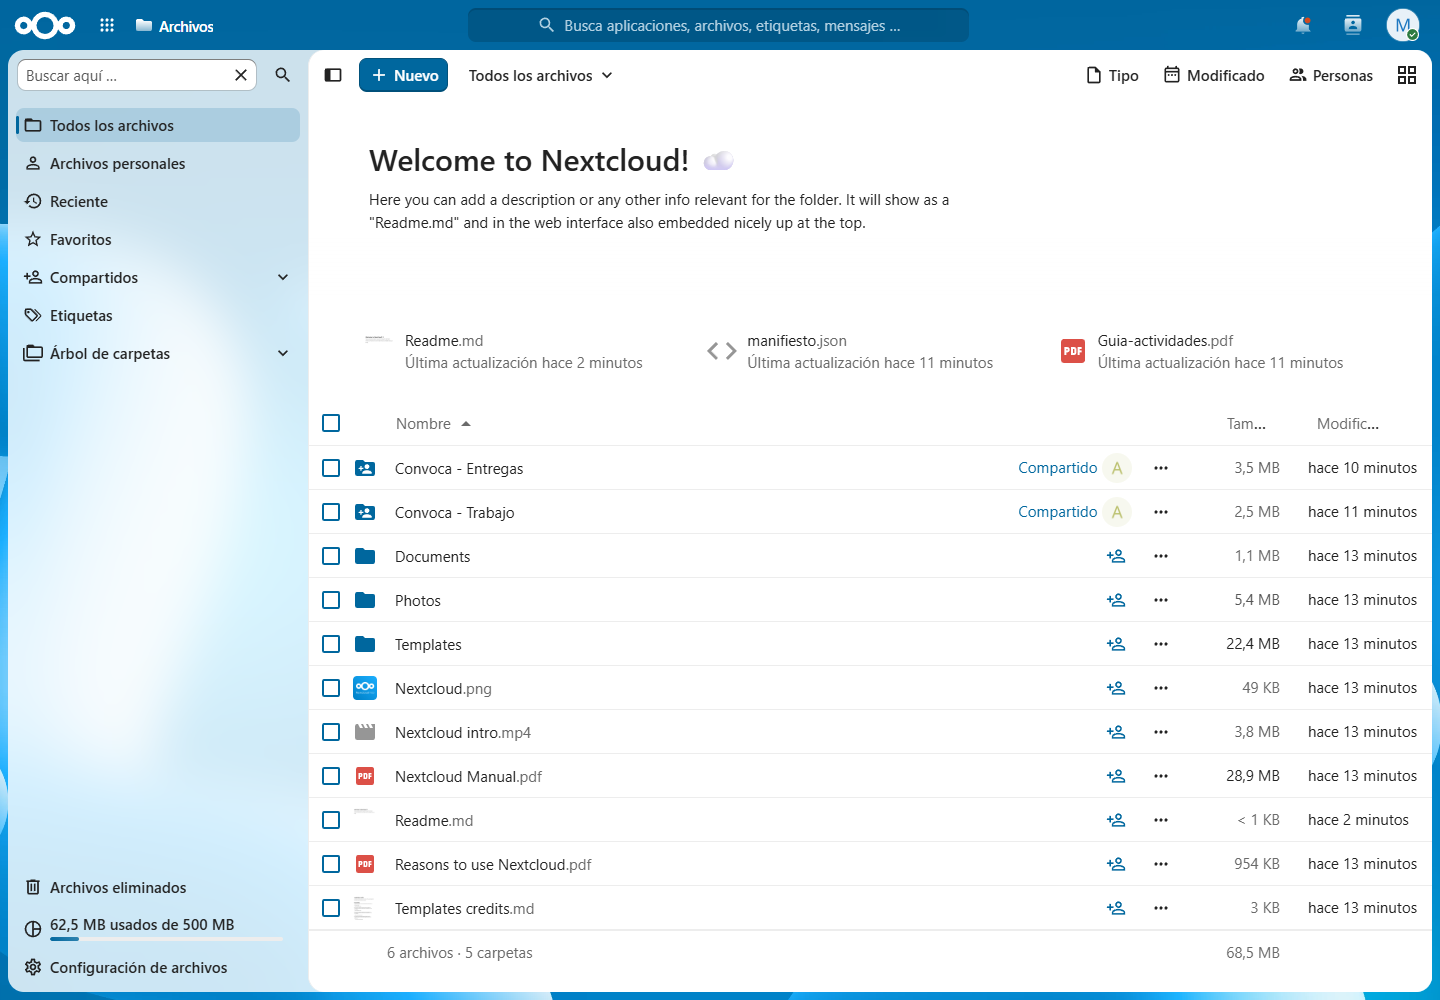
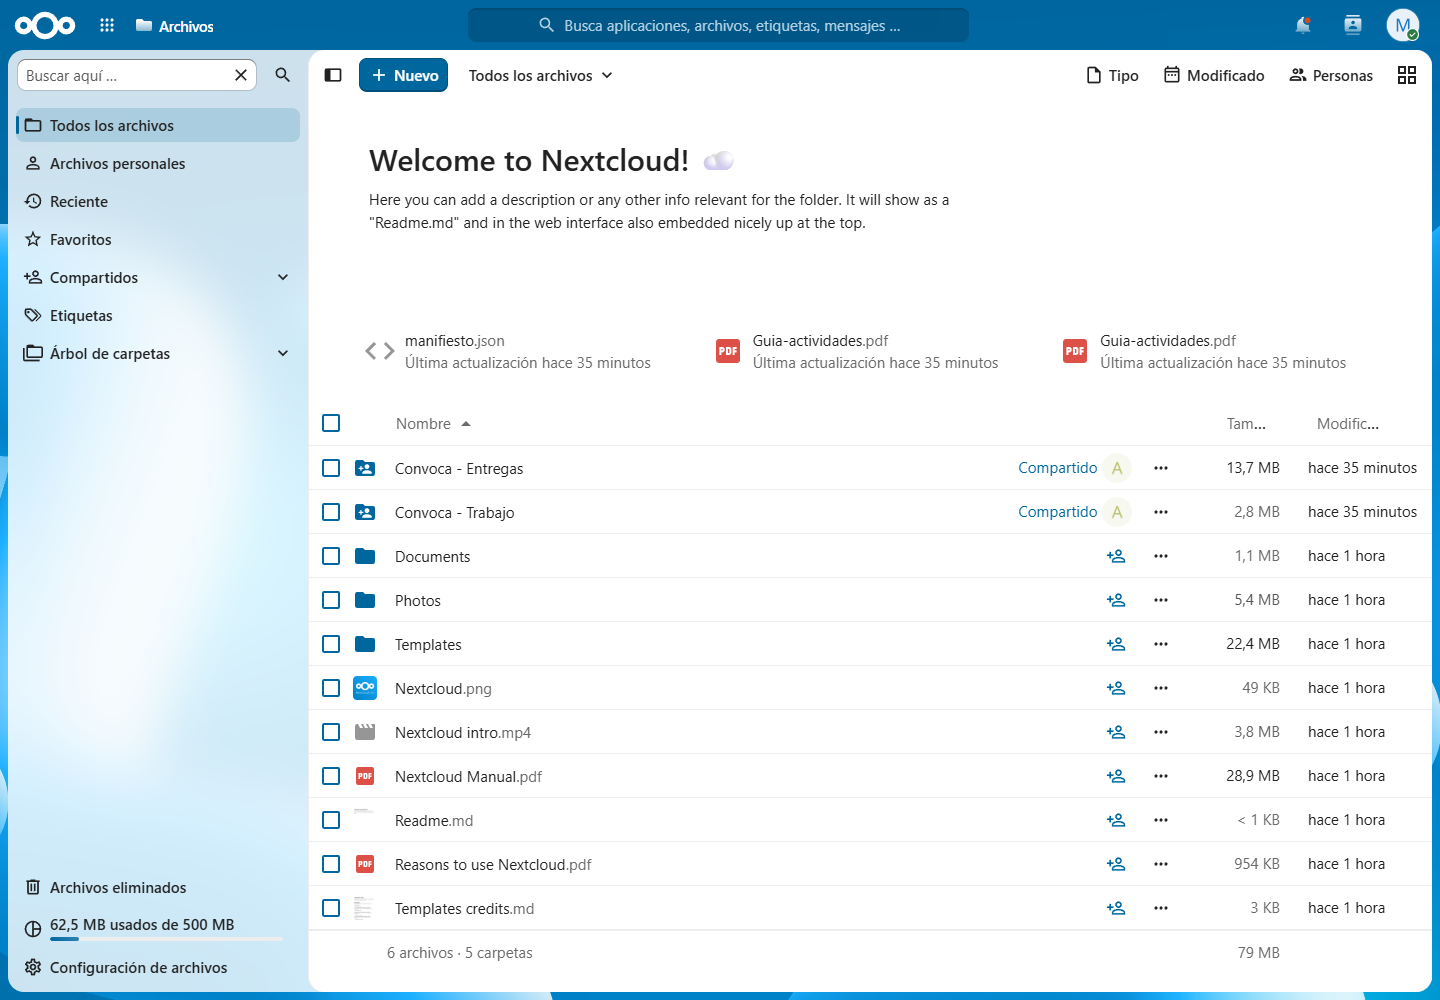
Corrige túnel de Nextcloud (origen IPv4 para evitar errores 502)

diff --git a/docs/nextcloud-a12.md b/docs/nextcloud-a12.md
@@ -84,10 +84,12 @@ El servidor del responsable es el espacio común del grupo. Una instalación en 
 Con `cloudflared` instalado, el responsable abre otra terminal y mantiene este proceso activo:
 
 ```powershell
-cloudflared tunnel --url http://localhost:8082 --no-autoupdate
+cloudflared tunnel --url http://127.0.0.1:8082 --no-autoupdate
 ```
 
 Copiar la URL `https://...trycloudflare.com` que imprime y autorizar ese dominio en otra terminal del backend:
+
+Se usa `127.0.0.1` explícitamente: Docker publica este servicio solo en IPv4. Usar `localhost` puede resolver a `::1` y provocar un 502 en Cloudflare.
 
 ```powershell
 node scripts/nextcloud.js public-url https://DOMINIO-IMPRESO.trycloudflare.com
